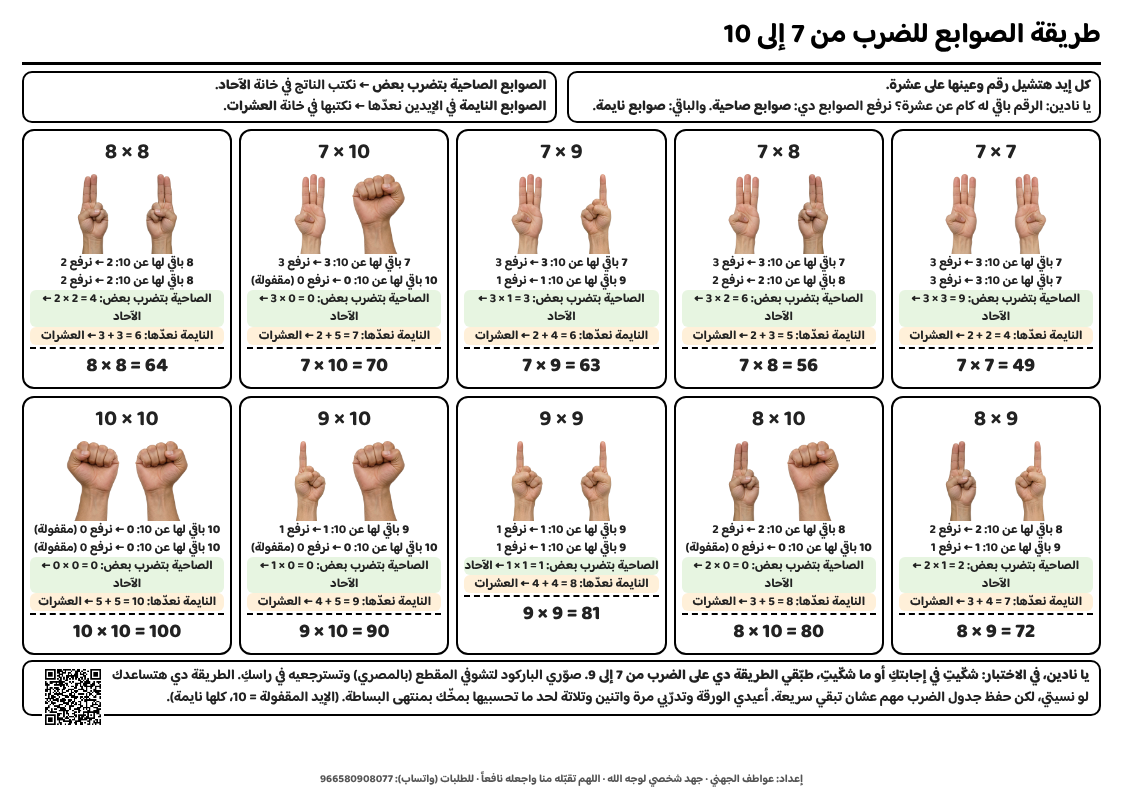
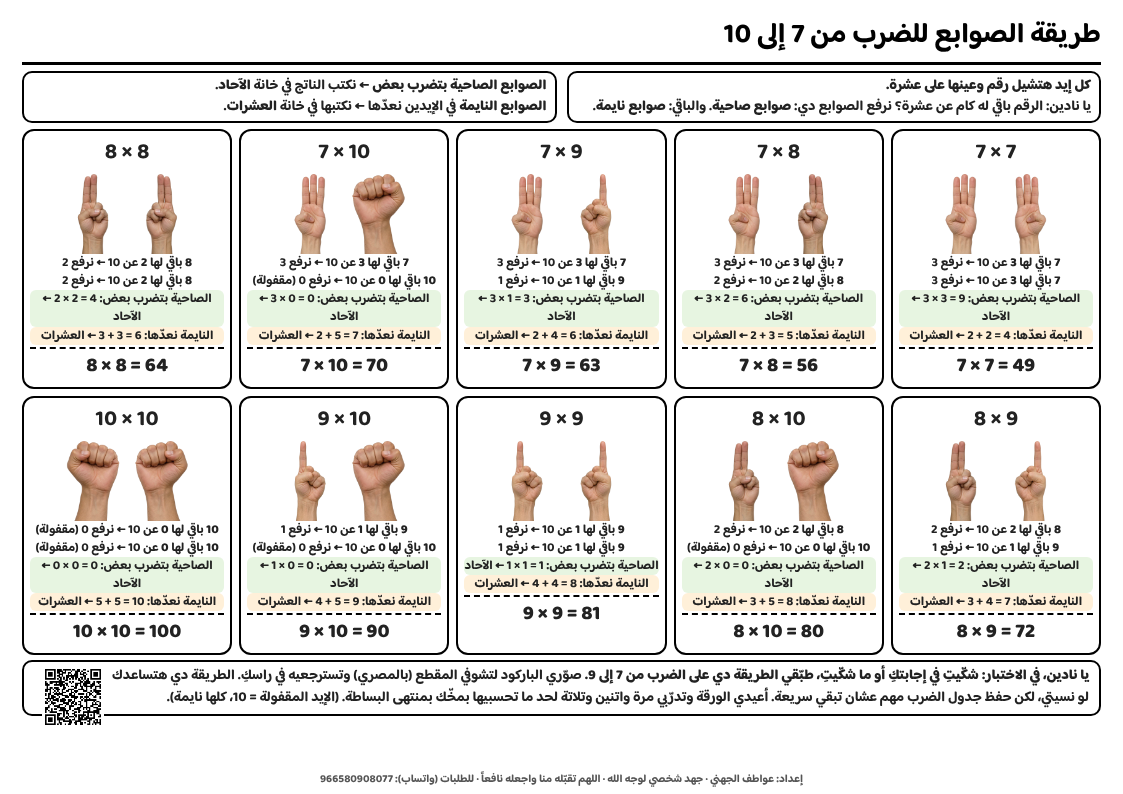
صياغة باقي لها N عن 10

diff --git a/zarb/zarb.js b/zarb/zarb.js
@@ -259,7 +259,7 @@ function fingers(){
 function recap(){
  app.innerHTML='<button class="back" id="bk">→ الرئيسية</button>'+bar()+'<div class="head"><h1>نراجع طريقة الأصابع</h1><div class="sub">دقيقتان كل يوم، قبل أي شيء</div></div>'+
  '<div class="yarn paper" style="padding:.7rem 1rem"><h2 style="margin:0">يا نادين، تعالي نشوف <bdi class="eq">8 × 6</bdi> مع بعض</h2><div class="hands" style="direction:ltr;margin:.3rem 0"><div class="hw"><div class="hb">'+handImg('L',4)+'</div><div class="hl">6 ← باقي لها 4</div></div><div class="hw"><div class="hb">'+handImg('R',2)+'</div><div class="hl">8 ← باقي لها 2</div></div></div>'+
- '<ol class="steps"><li><b class="n">1</b><div>8 باقي لها عن 10: <b>2</b><small>نرفع صباعين في الإيد الأولى، وهدول الصوابع الصاحية</small></div></li><li><b class="n">2</b><div>6 باقي لها عن 10: <b>4</b><small>نرفع 4 صوابع في الإيد التانية</small></div></li><li><b class="n">3</b><div>الصاحية بتضرب بعض: <bdi class="eq">2 × 4 = 8</bdi><small>نكتب 8 في خانة الآحاد</small></div></li><li><b class="n">4</b><div>النايمة نعدّها: 3 + 1 = <b>4</b><small>نكتب 4 في خانة العشرات</small></div></li><li><b class="n">5</b><div>الناتج: <b>48</b> ✓<small>ولو طلع الآحاد رقمين: الواحد هدية للنايمين، ما ننساهوش</small></div></li></ol>'+
+ '<ol class="steps"><li><b class="n">1</b><div>8 باقي لها <b>2</b> عن 10<small>نرفع صباعين في الإيد الأولى، وهدول الصوابع الصاحية</small></div></li><li><b class="n">2</b><div>6 باقي لها <b>4</b> عن 10<small>نرفع 4 صوابع في الإيد التانية</small></div></li><li><b class="n">3</b><div>الصاحية بتضرب بعض: <bdi class="eq">2 × 4 = 8</bdi><small>نكتب 8 في خانة الآحاد</small></div></li><li><b class="n">4</b><div>النايمة نعدّها: 3 + 1 = <b>4</b><small>نكتب 4 في خانة العشرات</small></div></li><li><b class="n">5</b><div>الناتج: <b>48</b> ✓<small>ولو طلع الآحاد رقمين: الواحد هدية للنايمين، ما ننساهوش</small></div></li></ol>'+
  '<div class="msg good">💡 في الاختبار يا نادين: سواء شكّيتِ في إجابتكِ أو ما شكّيتِ، طبّقي الطريقة دي على الضرب من 7 إلى 9، وأكتبي جدول 5 أول ما تستلمي الورقة.</div><div class="row"><button class="btn big" id="nx">راجعتها، نكمل ←</button></div></div>';
  $('#bk').onclick=home;$('#nx').onclick=nextStep;
 }
